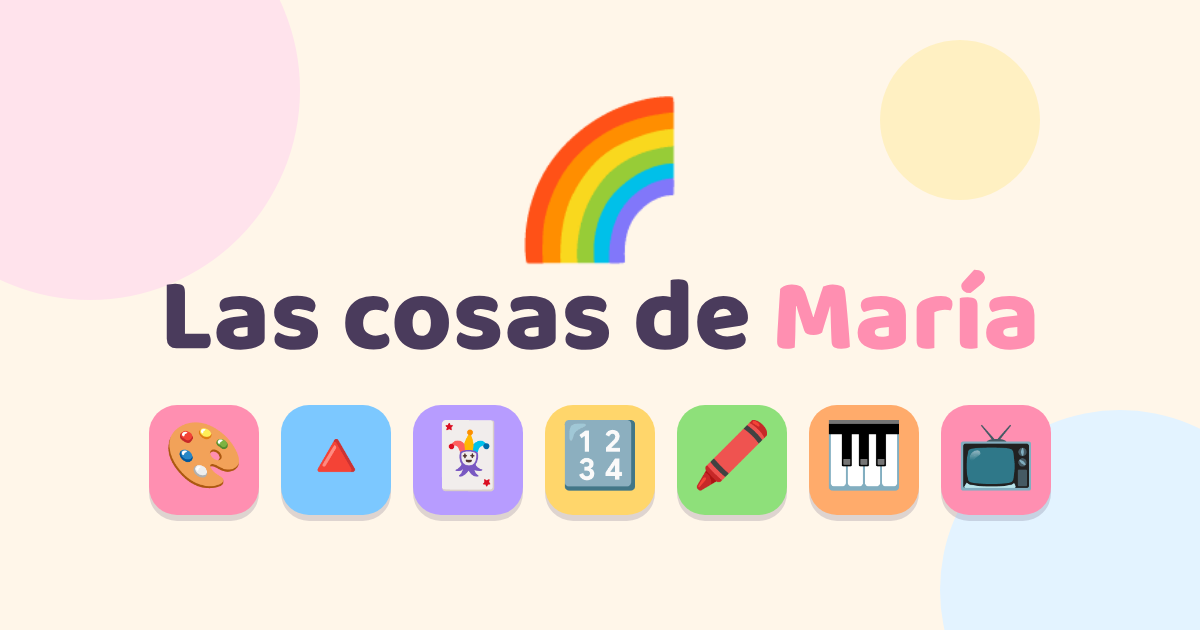
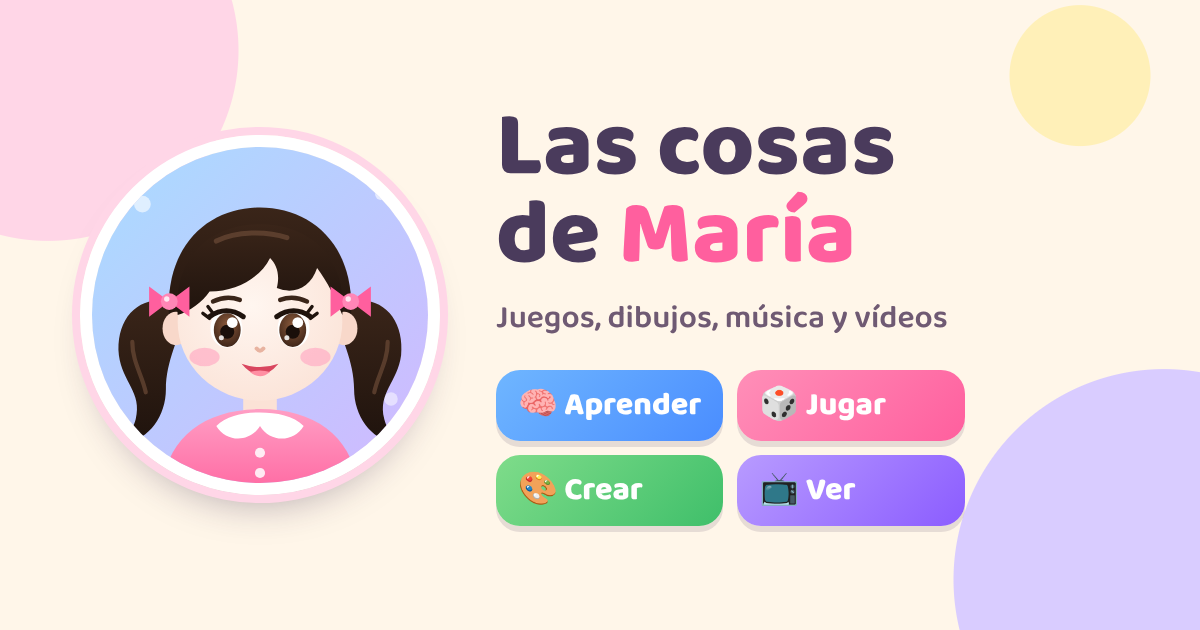
Nueva imagen y descripción al compartir
Claude-Session: https://claude.ai/code/session_01THShLArBgG1ukJ9esAy1Rw

diff --git a/index.html b/index.html
@@ -4,7 +4,7 @@
   <meta charset="utf-8">
   <meta name="viewport" content="width=device-width, initial-scale=1, viewport-fit=cover">
   <title>Las cosas de María</title>
-  <meta name="description" content="Juegos y vídeos para María: colores, formas, parejas, contar, pintar y música.">
+  <meta name="description" content="Juegos, dibujos, música y vídeos para María: aprender, jugar, crear y ver, con botones grandes y todo en español.">
   <meta name="theme-color" content="#ff8fb1">
 
   <!-- App instalable (PWA) -->
@@ -20,16 +20,16 @@
   <meta property="og:type" content="website">
   <meta property="og:locale" content="es_ES">
   <meta property="og:title" content="Las cosas de María">
-  <meta property="og:description" content="Juegos y vídeos para María 🌈">
+  <meta property="og:description" content="Juegos, dibujos, música y vídeos para María: aprender, jugar, crear y ver, con botones grandes y todo en español.">
   <meta property="og:url" content="https://las-cosas-de-maria.vercel.app/">
-  <meta property="og:image" content="https://las-cosas-de-maria.vercel.app/img/compartir.png">
+  <meta property="og:image" content="https://las-cosas-de-maria.vercel.app/img/compartir.png?v=2">
   <meta property="og:image:width" content="1200">
   <meta property="og:image:height" content="630">
-  <meta property="og:image:alt" content="Las cosas de María: juegos y vídeos">
+  <meta property="og:image:alt" content="La muñequita de María y las cuatro secciones: Aprender, Jugar, Crear y Ver">
   <meta name="twitter:card" content="summary_large_image">
   <meta name="twitter:title" content="Las cosas de María">
-  <meta name="twitter:description" content="Juegos y vídeos para María 🌈">
-  <meta name="twitter:image" content="https://las-cosas-de-maria.vercel.app/img/compartir.png">
+  <meta name="twitter:description" content="Juegos, dibujos, música y vídeos para María: aprender, jugar, crear y ver, con botones grandes y todo en español.">
+  <meta name="twitter:image" content="https://las-cosas-de-maria.vercel.app/img/compartir.png?v=2">
   <link rel="preconnect" href="https://fonts.googleapis.com">
   <link href="https://fonts.googleapis.com/css2?family=Baloo+2:wght@600;800&display=swap" rel="stylesheet">
   <link rel="stylesheet" href="/styles.css">

diff --git a/sw.js b/sw.js
@@ -1,6 +1,6 @@
 /* Service worker: permite instalar la web como app y jugar sin conexión.
    Cambia VERSION cada vez que se modifiquen archivos para forzar la actualización. */
-const VERSION = "maria-v32";
+const VERSION = "maria-v33";
 const ARCHIVOS = [
   "/", "/index.html", "/styles.css", "/app.js", "/videos.js", "/dibujos.js", "/juegos2.js", "/juegos3.js", "/juegos4.js", "/juegos5.js", "/audios.js", "/libro-para-colorear.pdf", "/manifest.webmanifest", "/img/maria.svg",
   "/img/icono-192.png", "/img/icono-512.png", "/img/favicon.png", "/img/apple-touch-icon.png",
